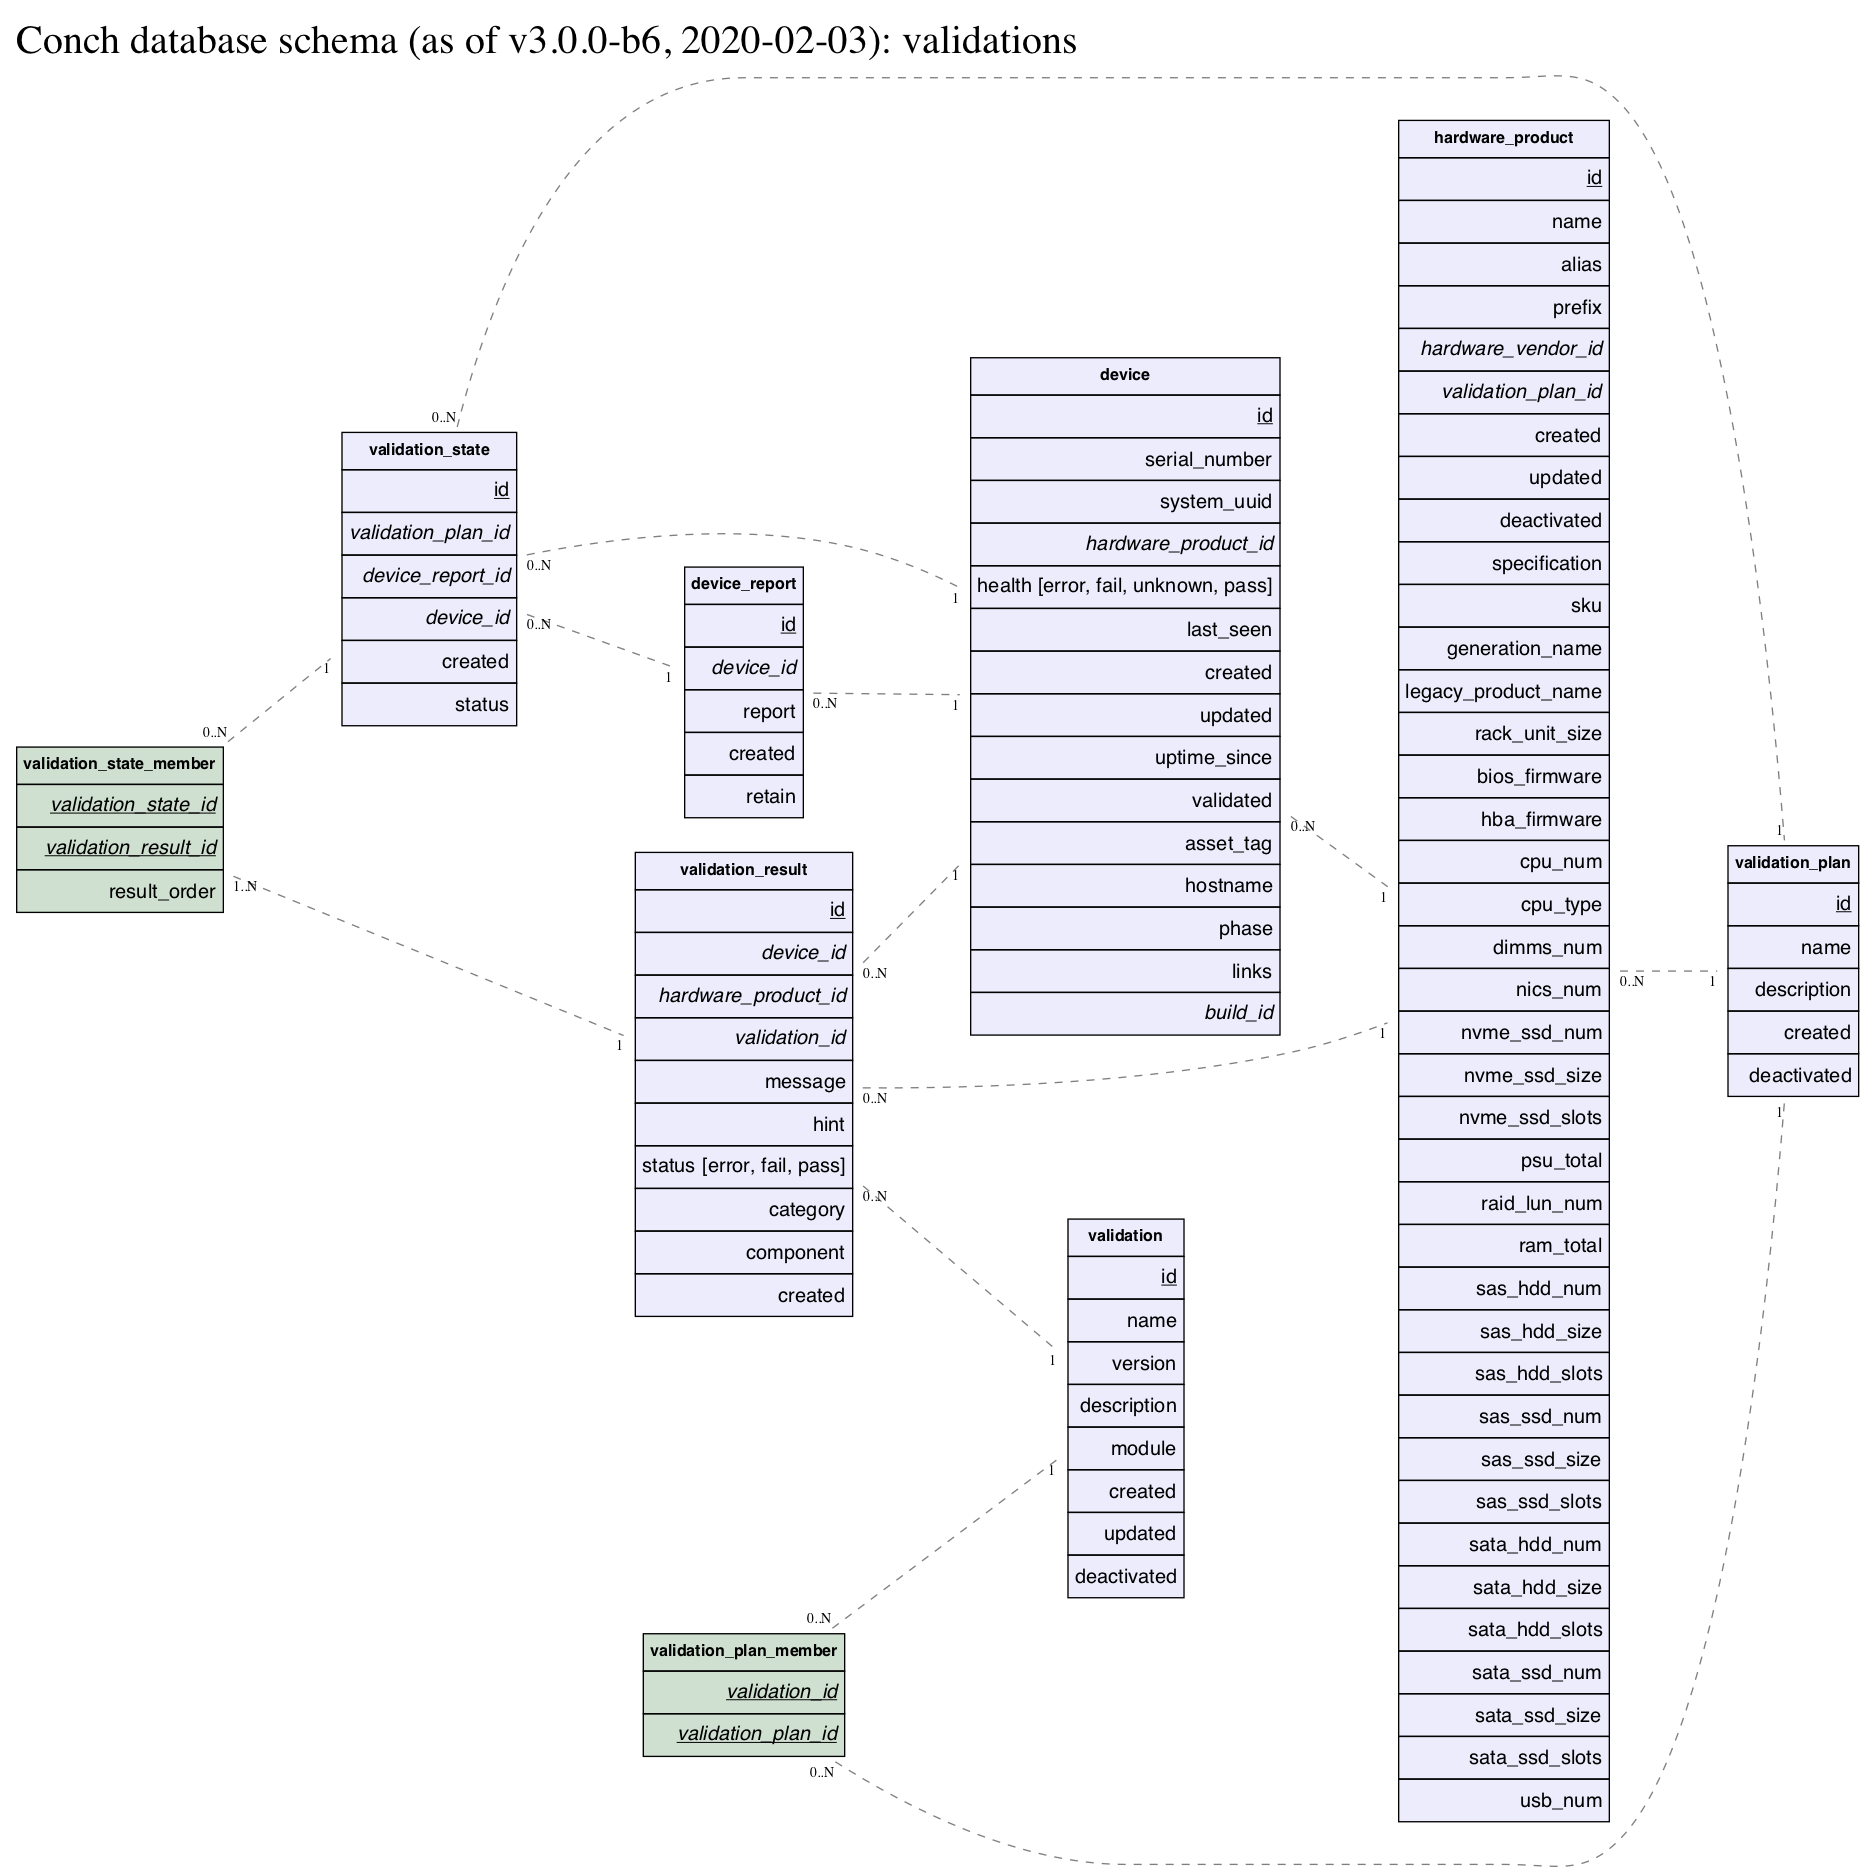
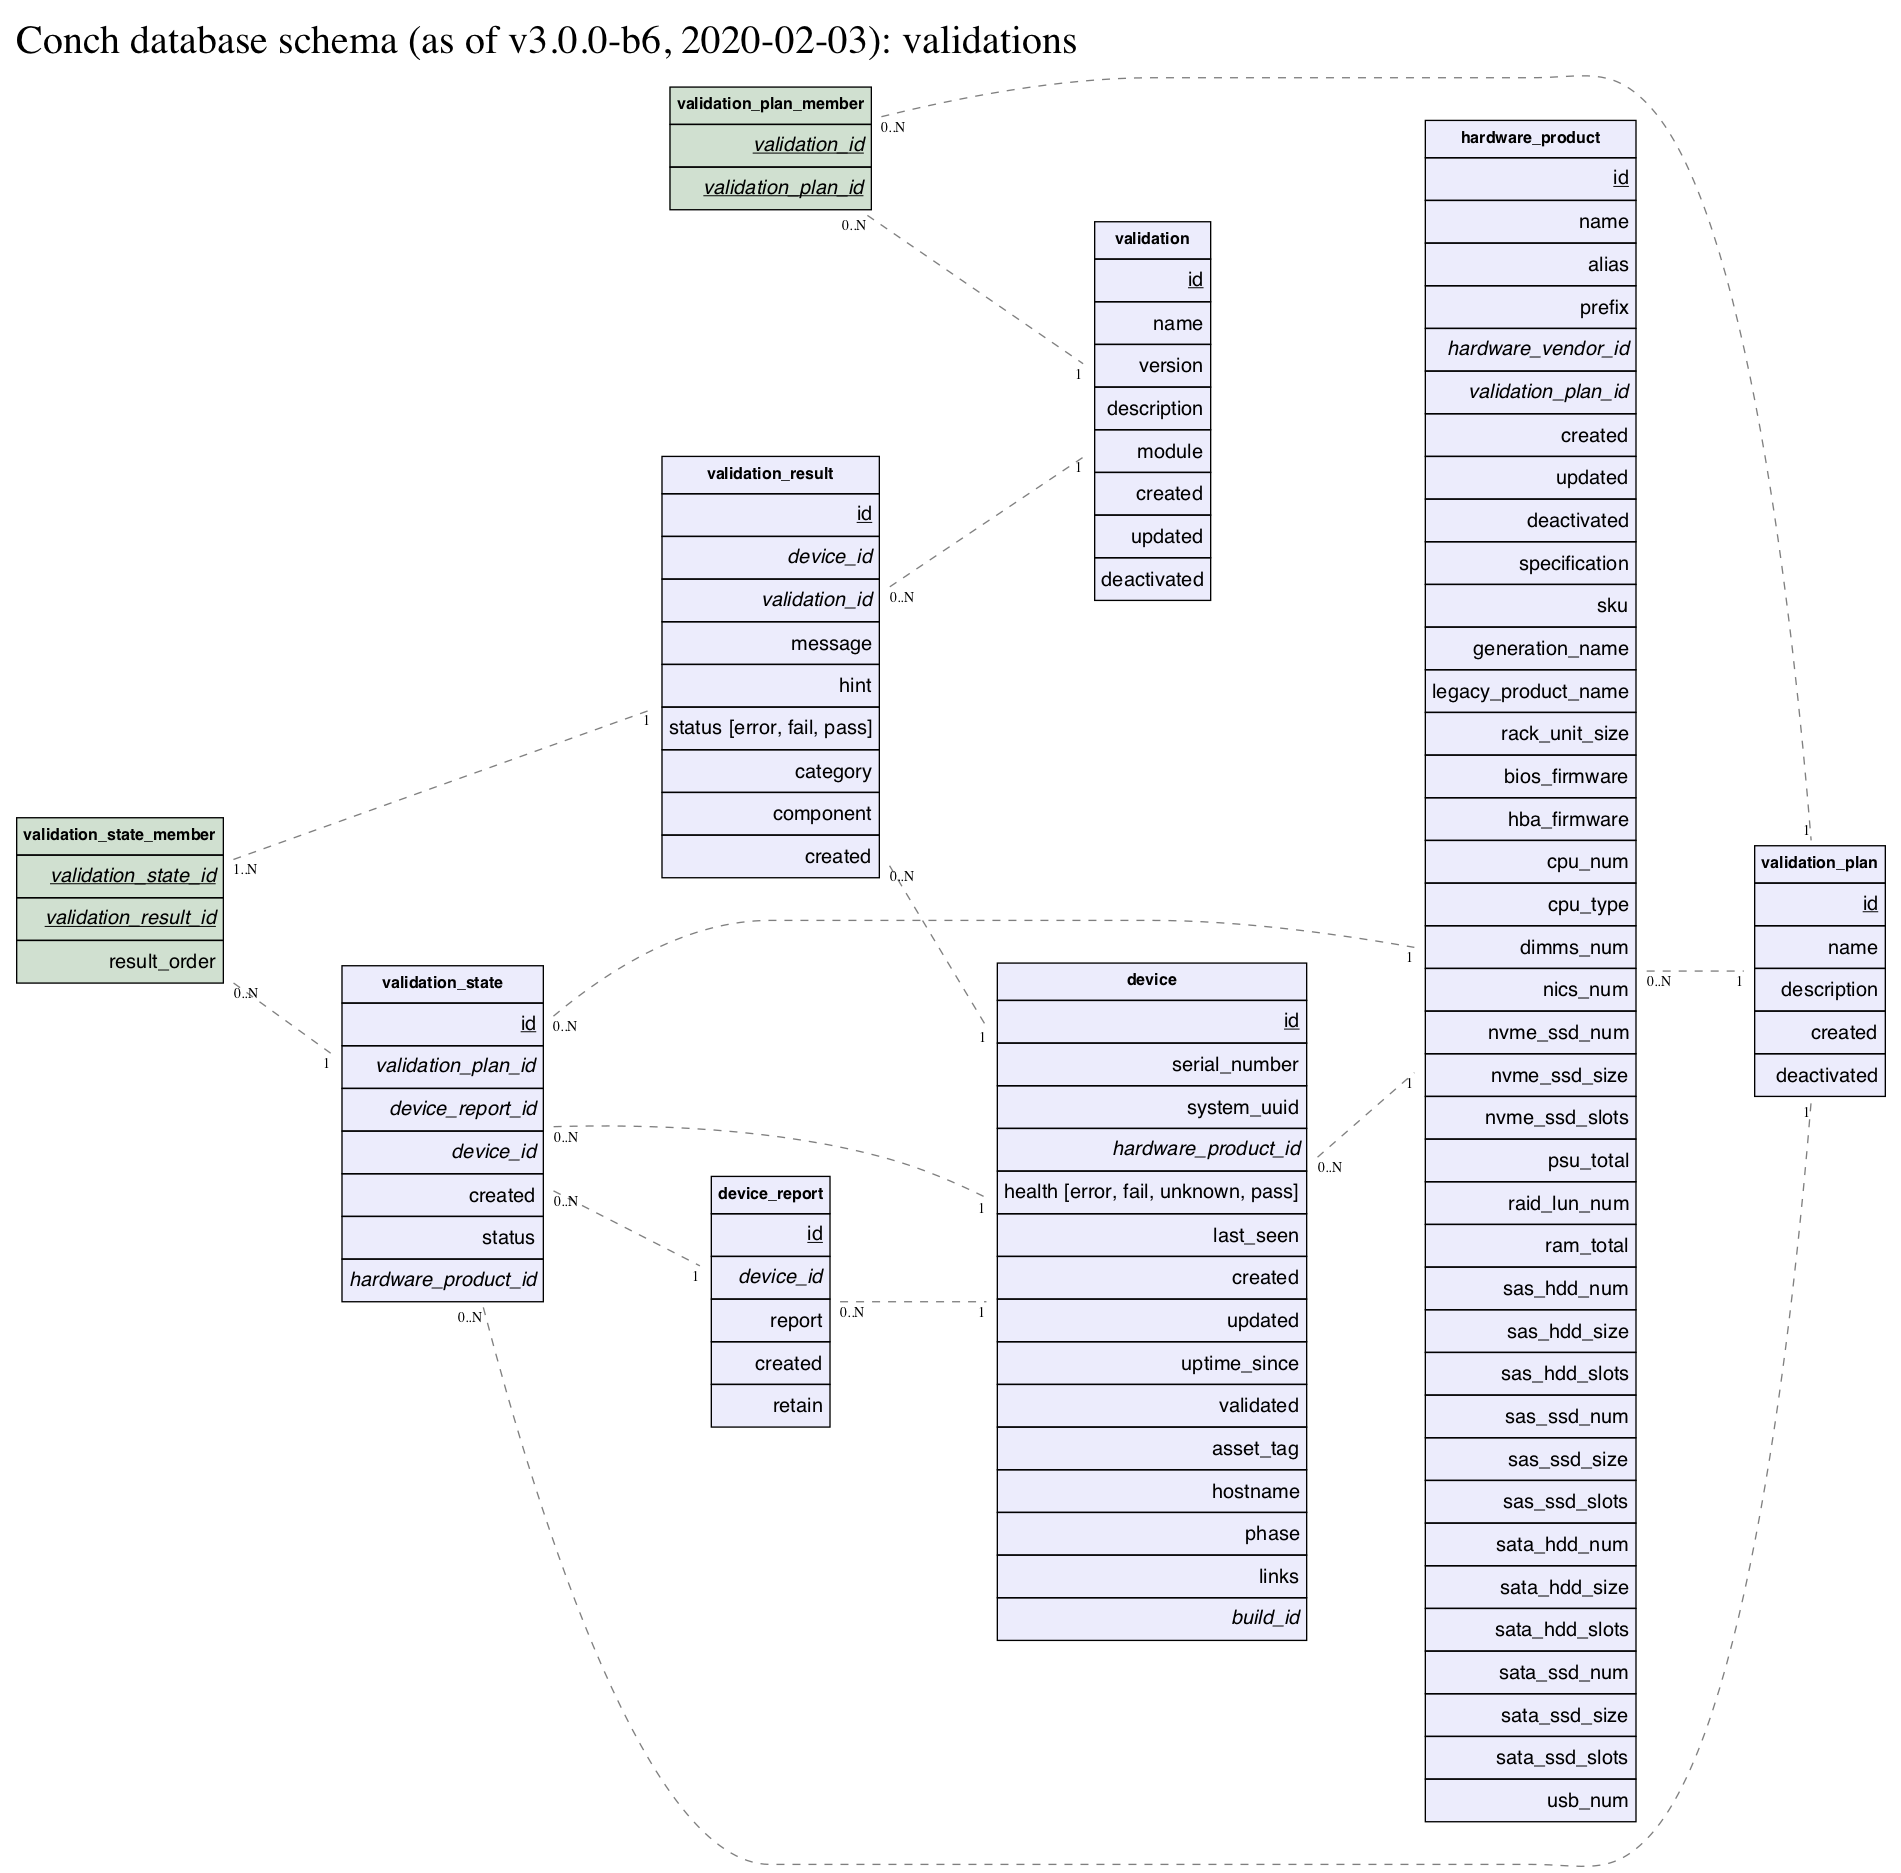
move hardware_product_id from validation_result to validation_state

diff --git a/docs/modules/Conch::DB::Result::ValidationResult.md b/docs/modules/Conch::DB::Result::ValidationResult.md
@@ -19,15 +19,6 @@ is_nullable: 0
 size: 16
 ```
 
-### hardware\_product\_id
-
-```
-data_type: 'uuid'
-is_foreign_key: 1
-is_nullable: 0
-size: 16
-```
-
 ### validation\_id
 
 ```
@@ -100,7 +91,6 @@ size: 16
 ### `validation_result_all_columns_key`
 
 - ["device\_id"](#device_id)
-- ["hardware\_product\_id"](#hardware_product_id)
 - ["validation\_id"](#validation_id)
 - ["message"](#message)
 - ["hint"](#hint)
@@ -115,12 +105,6 @@ size: 16
 Type: belongs\_to
 
 Related object: [Conch::DB::Result::Device](../modules/Conch%3A%3ADB%3A%3AResult%3A%3ADevice)
-
-### hardware\_product
-
-Type: belongs\_to
-
-Related object: [Conch::DB::Result::HardwareProduct](../modules/Conch%3A%3ADB%3A%3AResult%3A%3AHardwareProduct)
 
 ### validation
 

diff --git a/docs/modules/Conch::DB::Result::ValidationState.md b/docs/modules/Conch::DB::Result::ValidationState.md
@@ -63,6 +63,15 @@ is_nullable: 0
 size: 16
 ```
 
+### hardware\_product\_id
+
+```
+data_type: 'uuid'
+is_foreign_key: 1
+is_nullable: 0
+size: 16
+```
+
 ## PRIMARY KEY
 
 - ["id"](#id)
@@ -80,6 +89,12 @@ Related object: [Conch::DB::Result::Device](../modules/Conch%3A%3ADB%3A%3AResult
 Type: belongs\_to
 
 Related object: [Conch::DB::Result::DeviceReport](../modules/Conch%3A%3ADB%3A%3AResult%3A%3ADeviceReport)
+
+### hardware\_product
+
+Type: belongs\_to
+
+Related object: [Conch::DB::Result::HardwareProduct](../modules/Conch%3A%3ADB%3A%3AResult%3A%3AHardwareProduct)
 
 ### validation\_plan
 

diff --git a/docs/modules/Conch::DB::Result::HardwareProduct.md b/docs/modules/Conch::DB::Result::HardwareProduct.md
@@ -342,11 +342,11 @@ Type: belongs\_to
 
 Related object: [Conch::DB::Result::ValidationPlan](../modules/Conch%3A%3ADB%3A%3AResult%3A%3AValidationPlan)
 
-### validation\_results
+### validation\_states
 
 Type: has\_many
 
-Related object: [Conch::DB::Result::ValidationResult](../modules/Conch%3A%3ADB%3A%3AResult%3A%3AValidationResult)
+Related object: [Conch::DB::Result::ValidationState](../modules/Conch%3A%3ADB%3A%3AResult%3A%3AValidationState)
 
 ## LICENSING
 
